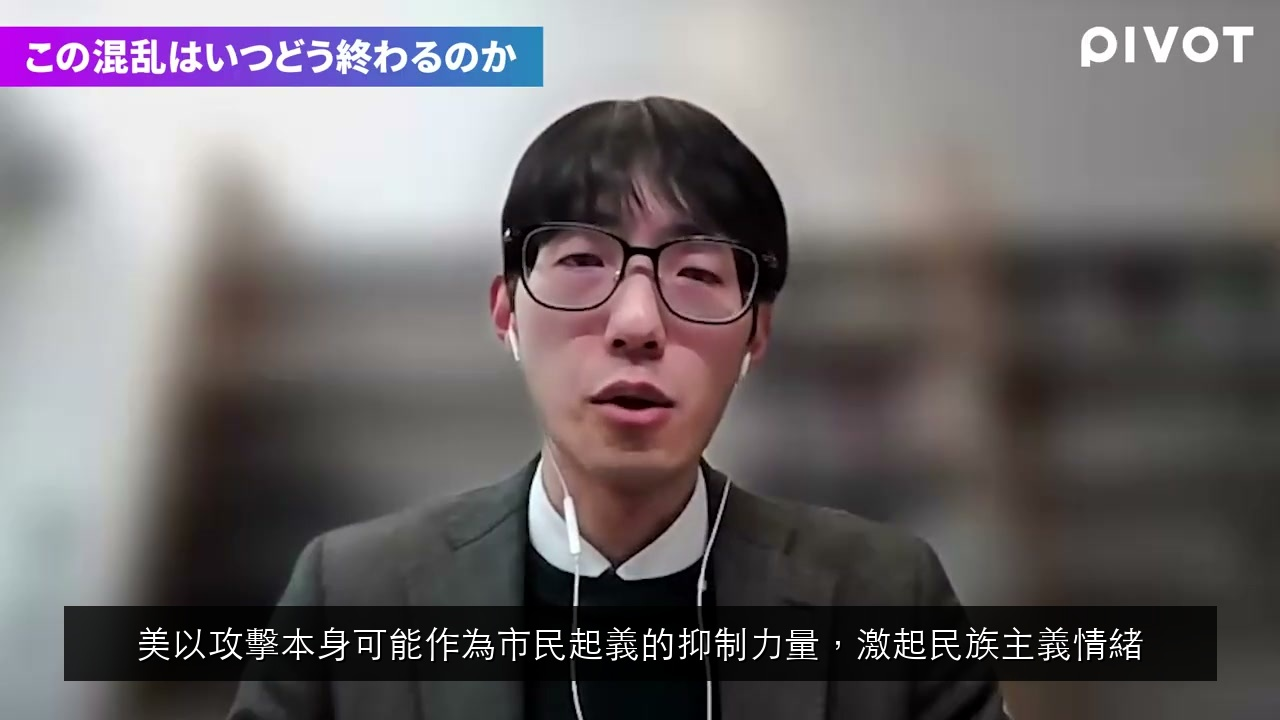
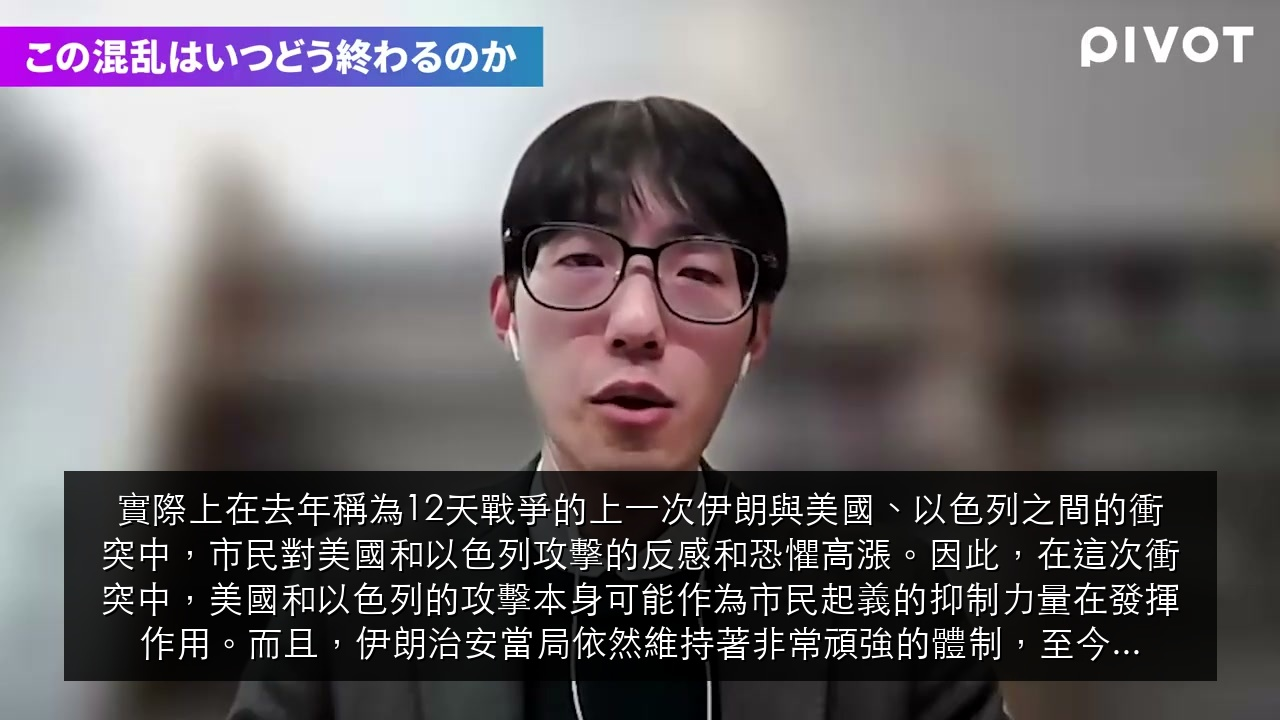
Update es9bPGkoDY4: longer quotes with better context (2-3 sentences)

Changed region(s): [[0.0312, 0.6417, 0.9688, 0.9167]]

diff --git a/es9bPGkoDY4/index.html b/es9bPGkoDY4/index.html
@@ -54,74 +54,74 @@
     <div class="grid">
 
         <div class="item">
-            <img src="quote_001_00-02-30.jpg" alt="伊朗體制已建立防止因最高領袖缺席而產生政治真空的制度設計...">
+            <img src="quote_001_00-02-30.jpg" alt="伊朗體制能維持穩定的理由，大致可分為三點。第一，已經建立了防止因最高領袖缺席而產生政治真空的制度設計...">
             <div class="info">
                 <div class="time">⏱ 00:02:30</div>
-                <div class="text">伊朗體制已建立防止因最高領袖缺席而產生政治真空的制度設計</div>
+                <div class="text">伊朗體制能維持穩定的理由，大致可分為三點。第一，已經建立了防止因最高領袖缺席而產生政治真空的制度設計。這樣的憲法統治制度，原本就是為了防止因最高領袖突然缺席而產生政治真空而建立的。</div>
             </div>
         </div>
 
         <div class="item">
-            <img src="quote_002_00-05-15.jpg" alt="伊朗並非個人獨裁，而是以最高領袖為核心的階層式分散型統治系統...">
+            <img src="quote_002_00-05-15.jpg" alt="實際上，在革命後超過40年的時間裡，伊朗體制並非個人獨裁式的一人統治，而是以最高領袖為核心，建立了階...">
             <div class="info">
                 <div class="time">⏱ 00:05:15</div>
-                <div class="text">伊朗並非個人獨裁，而是以最高領袖為核心的階層式分散型統治系統</div>
+                <div class="text">實際上，在革命後超過40年的時間裡，伊朗體制並非個人獨裁式的一人統治，而是以最高領袖為核心，建立了階層式的分散型統治系統。雖然最高領導者對內政、外交、安全保障等所有事項擁有最終決策權，但在具體政策決定的擬定上，採取由下而上的方式。</div>
             </div>
         </div>
 
         <div class="item">
-            <img src="quote_003_00-07-45.jpg" alt="決策制度促使政治菁英在現行框架內競爭，經濟利益抑制了菁英脫離體制...">
+            <img src="quote_003_00-08-20.jpg" alt="決策相關的制度促使政治菁英在現行政治框架內競爭，而且透過競爭獲得的政治和經濟利益的存在，抑制了菁英們...">
             <div class="info">
-                <div class="time">⏱ 00:07:45</div>
-                <div class="text">決策制度促使政治菁英在現行框架內競爭，經濟利益抑制了菁英脫離體制</div>
+                <div class="time">⏱ 00:08:20</div>
+                <div class="text">決策相關的制度促使政治菁英在現行政治框架內競爭，而且透過競爭獲得的政治和經濟利益的存在，抑制了菁英們脫離體制。從維持和擴大自身政治影響力的角度來看，他們都認為持續參加核心圈，這是最合理且確實的方法。</div>
             </div>
         </div>
 
         <div class="item">
-            <img src="quote_004_00-09-20.jpg" alt="35年來，哈米尼透過石油收入建立了以自己為中心的利益分配網路...">
+            <img src="quote_004_00-10-00.jpg" alt="哈米尼本人在35年的統治期間，透過石油出口獲得的經常性收入，建立了以自己為中心的網路結構，用來分配給...">
             <div class="info">
-                <div class="time">⏱ 00:09:20</div>
-                <div class="text">35年來，哈米尼透過石油收入建立了以自己為中心的利益分配網路</div>
+                <div class="time">⏱ 00:10:00</div>
+                <div class="text">哈米尼本人在35年的統治期間，透過石油出口獲得的經常性收入，建立了以自己為中心的網路結構，用來分配給國內的支持者。透過這個利益分配網路分配的利益，大致分為三類：對菁英的政治職位分配、對他們的經濟活動支援、對支持體制的國民進行經濟利益分配。</div>
             </div>
         </div>
 
         <div class="item">
-            <img src="quote_005_00-12-40.jpg" alt="巴斯基民兵可獲得超市折扣、優惠貸款、免費醫療，成為市民支持體制的經濟誘因...">
+            <img src="quote_005_00-12-40.jpg" alt="市民成為巴斯基民兵組織的成員後，可以在超市和博物館獲得折扣，可以獲得優惠的結婚資金和住宅貸款，還有免...">
             <div class="info">
                 <div class="time">⏱ 00:12:40</div>
-                <div class="text">巴斯基民兵可獲得超市折扣、優惠貸款、免費醫療，成為市民支持體制的經濟誘因</div>
+                <div class="text">市民成為巴斯基民兵組織的成員後，可以在超市和博物館獲得折扣，可以獲得優惠的結婚資金和住宅貸款，還有免費的醫療服務和學習支援等。這些經濟利益都以法律形式規定，特別是在經濟發展較落後的農村地區或都市貧民之間，成為市民支持體制再生和維持的經濟誘因。</div>
             </div>
         </div>
 
         <div class="item">
-            <img src="quote_006_00-14-30.jpg" alt="如果石油出口因戰爭中斷，透過利益分配獲取市民支持將變得更加困難...">
+            <img src="quote_006_00-14-50.jpg" alt="對市民的分配可能會受到戰爭影響。假如當前美國和以色列的戰爭進一步擴大，導致伊朗的石油出口中斷，透過利...">
             <div class="info">
-                <div class="time">⏱ 00:14:30</div>
-                <div class="text">如果石油出口因戰爭中斷，透過利益分配獲取市民支持將變得更加困難</div>
+                <div class="time">⏱ 00:14:50</div>
+                <div class="text">對市民的分配可能會受到戰爭影響。假如當前美國和以色列的戰爭進一步擴大，導致伊朗的石油出口中斷，透過利益分配獲取市民政治支持將變得更加困難。但如果這個出口因戰爭而中斷，伊朗將陷入損害體制穩定的局面。</div>
             </div>
         </div>
 
         <div class="item">
-            <img src="quote_007_00-18-50.jpg" alt="川普並不一定將伊朗體制崩潰定位為勝利條件，只專注於排除軍事威脅...">
+            <img src="quote_007_00-18-50.jpg" alt="川普總統本人並不一定將伊朗體制崩潰定位為這場戰爭的勝利條件。川普總統本人似乎理解僅靠空襲無法讓體制崩...">
             <div class="info">
                 <div class="time">⏱ 00:18:50</div>
-                <div class="text">川普並不一定將伊朗體制崩潰定位為勝利條件，只專注於排除軍事威脅</div>
+                <div class="text">川普總統本人並不一定將伊朗體制崩潰定位為這場戰爭的勝利條件。川普總統本人似乎理解僅靠空襲無法讓體制崩潰，只專注於排除伊朗的軍事威脅，也就是解除核飛彈開發能力這一點，從目前來看，似乎並沒有持續追求體制崩潰。</div>
             </div>
         </div>
 
         <div class="item">
-            <img src="quote_008_00-21-15.jpg" alt="美以攻擊本身可能作為市民起義的抑制力量，激起民族主義情緒...">
+            <img src="quote_008_00-21-15.jpg" alt="實際上在去年稱為12天戰爭的上一次伊朗與美國、以色列之間的衝突中，市民對美國和以色列攻擊的反感和恐懼...">
             <div class="info">
                 <div class="time">⏱ 00:21:15</div>
-                <div class="text">美以攻擊本身可能作為市民起義的抑制力量，激起民族主義情緒</div>
+                <div class="text">實際上在去年稱為12天戰爭的上一次伊朗與美國、以色列之間的衝突中，市民對美國和以色列攻擊的反感和恐懼高漲。因此，在這次衝突中，美國和以色列的攻擊本身可能作為市民起義的抑制力量在發揮作用。而且，伊朗治安當局依然維持著非常頑強的體制，至今仍對市民進行嚴格的鎮壓監視。</div>
             </div>
         </div>
 
         <div class="item">
-            <img src="quote_009_00-23-45.jpg" alt="用防空飛彈擊落便宜的伊朗無人機，像用法拉利摧毀腳踏車一樣...">
+            <img src="quote_009_00-23-45.jpg" alt="阿聯和卡達等國發表說他們以非常高的精度成功擊落來自伊朗的飛彈和無人機，但據說經濟成本非常高。用防空飛...">
             <div class="info">
                 <div class="time">⏱ 00:23:45</div>
-                <div class="text">用防空飛彈擊落便宜的伊朗無人機，像用法拉利摧毀腳踏車一樣</div>
+                <div class="text">阿聯和卡達等國發表說他們以非常高的精度成功擊落來自伊朗的飛彈和無人機，但據說經濟成本非常高。用防空飛彈擊落便宜的伊朗無人機的狀況，據說被批評為像用法拉利摧毀腳踏車一樣。這些國家應該會以經濟和軍事壓力為由，持續對美國施加停戰壓力。</div>
             </div>
         </div>
 
